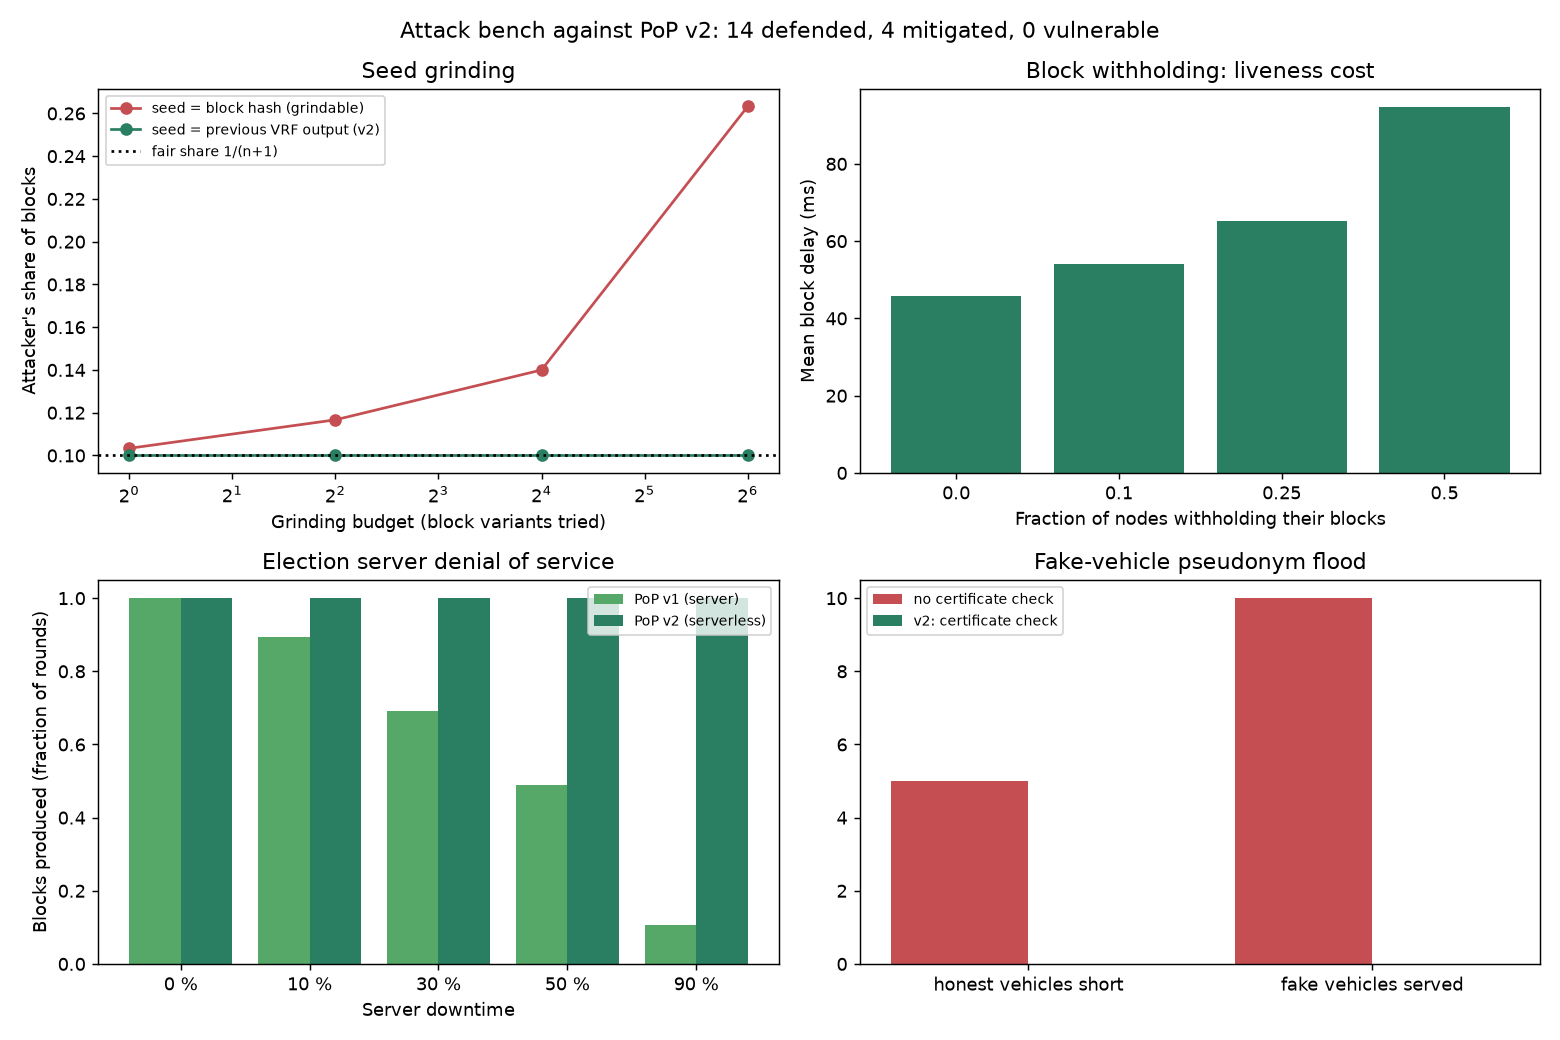
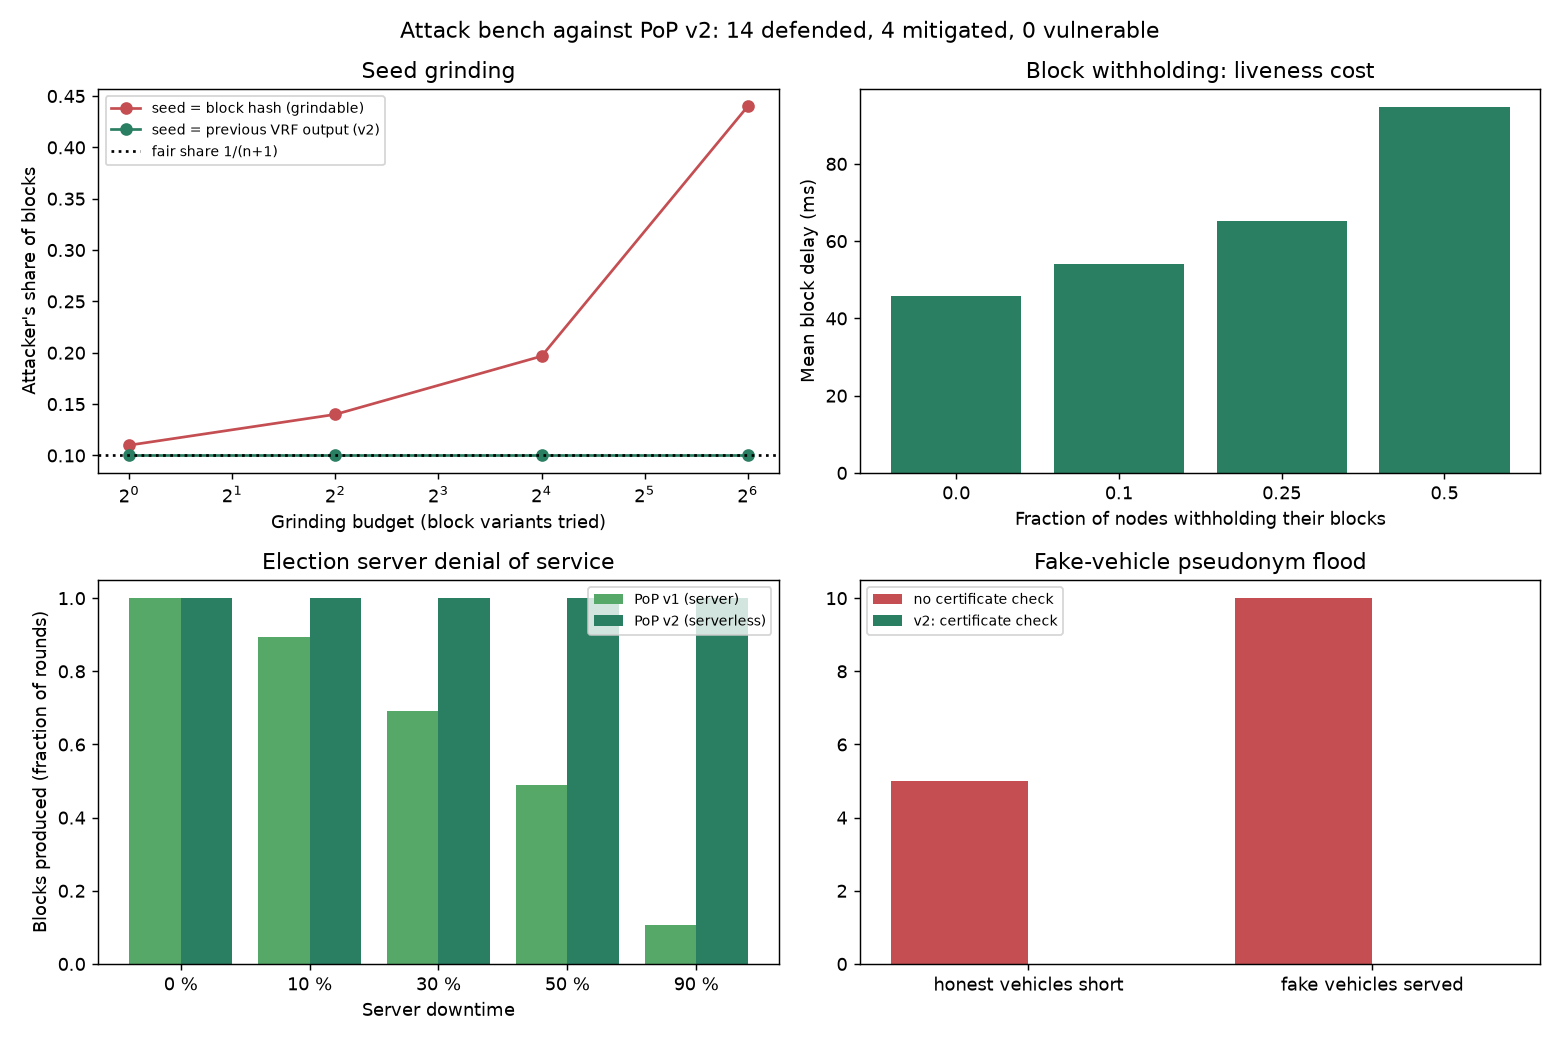
Derive the seed-grinding attack's VRF keys from its seed
With random keys the quick bench's chained-seed share crossed the 2x-fair
threshold by chance in about 3 % of CI runs. The attack bench is rerun:
block-hash seed share 0.11 to 0.44, chained VRF seed 0.10 (fair 0.10).

diff --git a/src/pop_sim/v2/attacks.py b/src/pop_sim/v2/attacks.py
@@ -87,8 +87,9 @@ def attack_seed_grinding(n_honest: int = 9, budgets=(1, 4, 16, 64), rounds: int 
     value for block i+1 is small.  Possible when the seed is the block hash;
     impossible when the seed is the previous winner's VRF output."""
     rng = random.Random(seed)
-    honest = [vrf.generate_vrf_keypair(bits) for _ in range(n_honest)]
-    attacker = vrf.generate_vrf_keypair(bits)
+    key_rng = random.Random(f"grinding-keys:{seed}")    # keys from the seed: the bench is reproducible
+    honest = [vrf.generate_vrf_keypair(bits, rng=key_rng) for _ in range(n_honest)]
+    attacker = vrf.generate_vrf_keypair(bits, rng=key_rng)
     results = {}
     for mode in ("block_hash", "chained_vrf"):
         for budget in budgets:

diff --git a/docs/attack_and_scenario_results.md b/docs/attack_and_scenario_results.md
@@ -18,7 +18,7 @@ outcome changes: *revoked vehicle keeps transmitting* becomes vulnerable (E6 of 
 |---|---|---|
 | Value forgery / proof theft | Claim a smaller value, reuse the winner's proof, use an uncertified key, choose the seed | 0 of 4 accepted, honest block accepted |
 | Sortition threshold tampering | A node with value 0.94 writes `threshold: 1.0`, `miners: 0`, or claims a no-miner round with or without evidence | 0 of 4 accepted, honest block accepted (an earlier verifier accepted the first two: review finding, fixed in 2.2.1) |
-| Seed grinding | Previous winner tries 1 to 64 block variants to lower its next value | Block-hash seed: share rises from 0.09 to 0.36. Chained VRF seed (v2): stays at 0.11 (fair share 0.10) |
+| Seed grinding | Previous winner tries 1 to 64 block variants to lower its next value | Block-hash seed: share rises from 0.11 to 0.44. Chained VRF seed (v2): stays at 0.10 (fair share 0.10). Keys are derived from the attack's seed (3.5.0), so the figures are reproducible |
 | Multi-key seed choice | Attacker with 1 to 5 certified keys picks which winning key publishes to steer the next seed | Share 0.06 / 0.12 / 0.16 / 0.18 for k = 1 / 2 / 3 / 5 against fair 0.05 / 0.10 / 0.14 / 0.21; no measurable gain over honest play |
 | Block withholding | 0 to 50 % of nodes never publish when they win | 0 attacker blocks; mean block delay 46 ms to 95 ms; no round without a block |
 | Equivocation | Two blocks, one proof | First block stands, second rejected, node reported |

diff --git a/CHANGELOG.md b/CHANGELOG.md
@@ -50,6 +50,10 @@ Added:
   files, docs/figure_map.md, exploratory analyses labelled.
 * R25: tests/test_review.py, 13 invariant tests; 103 tests.
 * `recycling --only E1,E3b` runs selected experiments.
+* Seed-grinding attack: VRF keys are derived from the attack's seed, so the
+  bench gives the same result every run (the quick check failed about 3 % of
+  CI runs by chance with random keys).  Block-hash seed share 0.11 to 0.44,
+  chained VRF seed 0.10 (fair share 0.10).
 
 Not changed, stated as limitations (docs/recycling.md): the adversary's
 observations, transmitter placement and single-insider isolation (R05 to R07),
